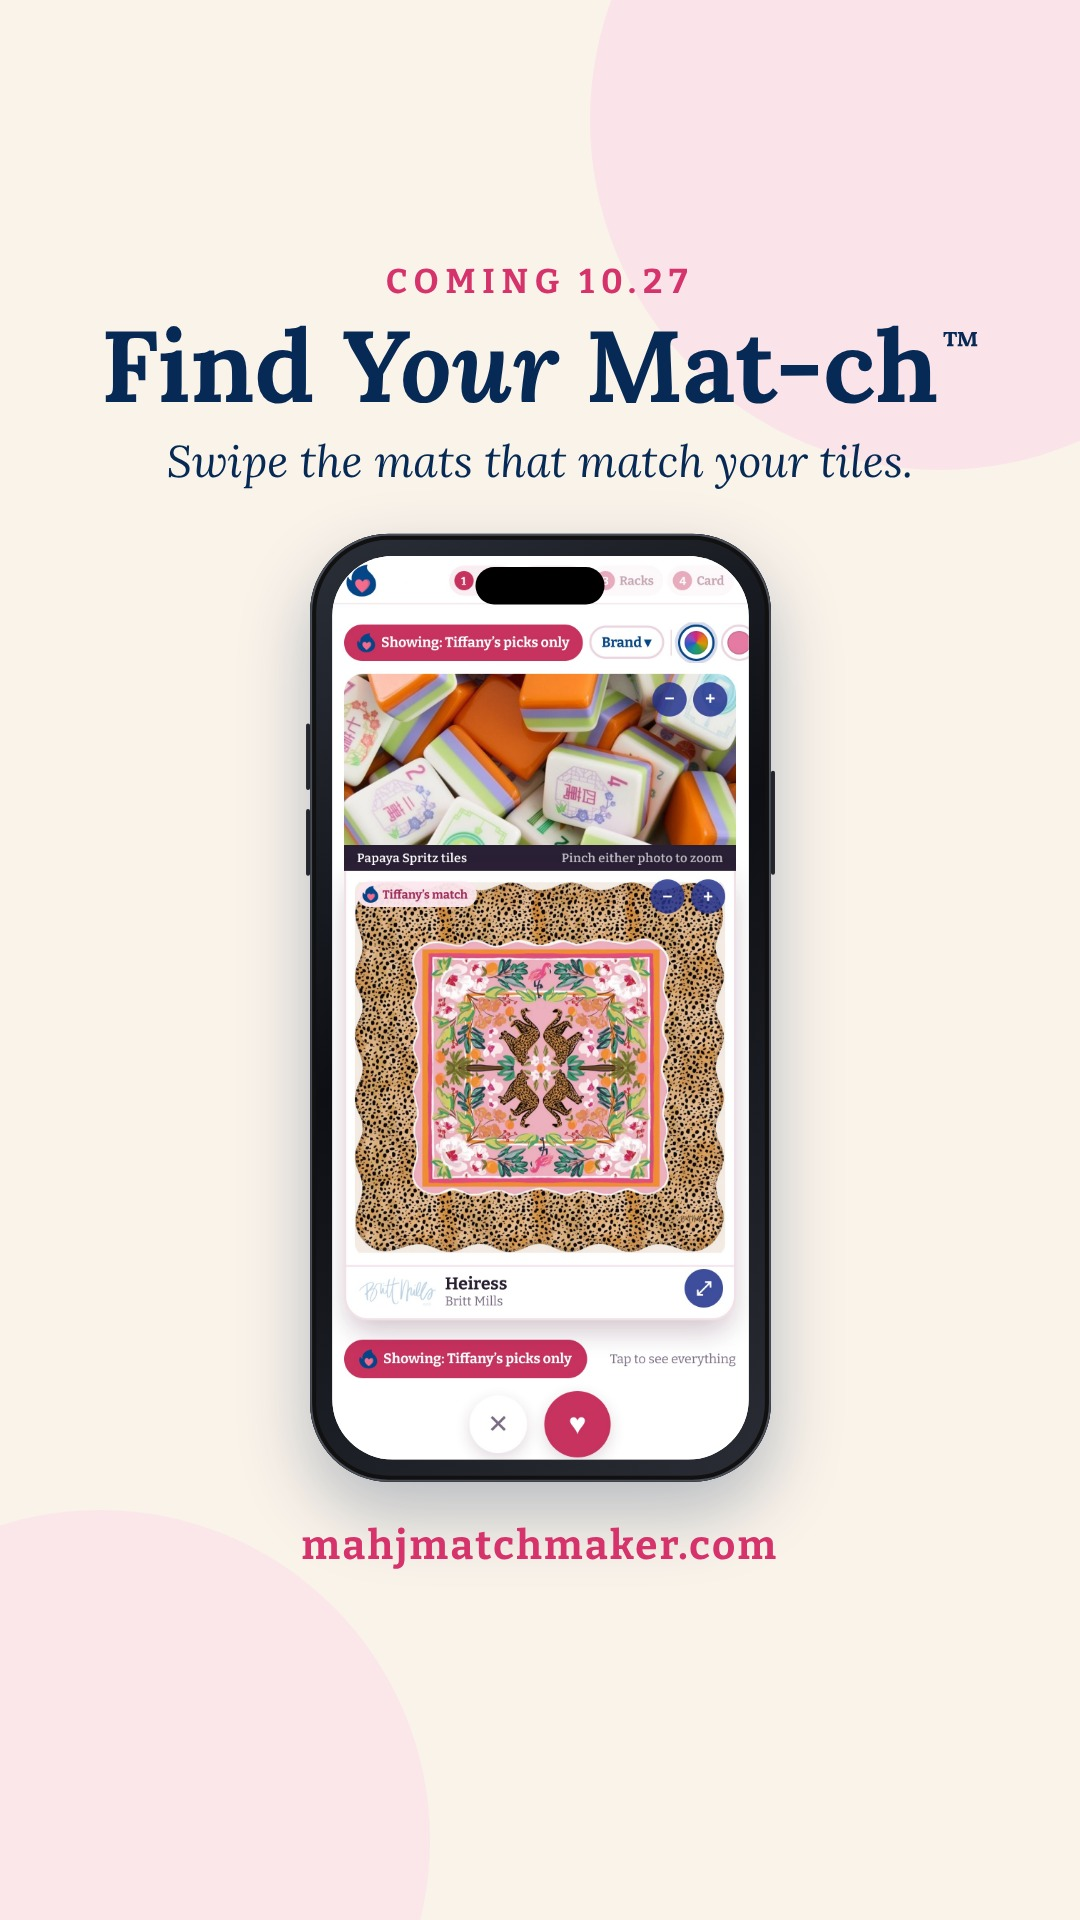
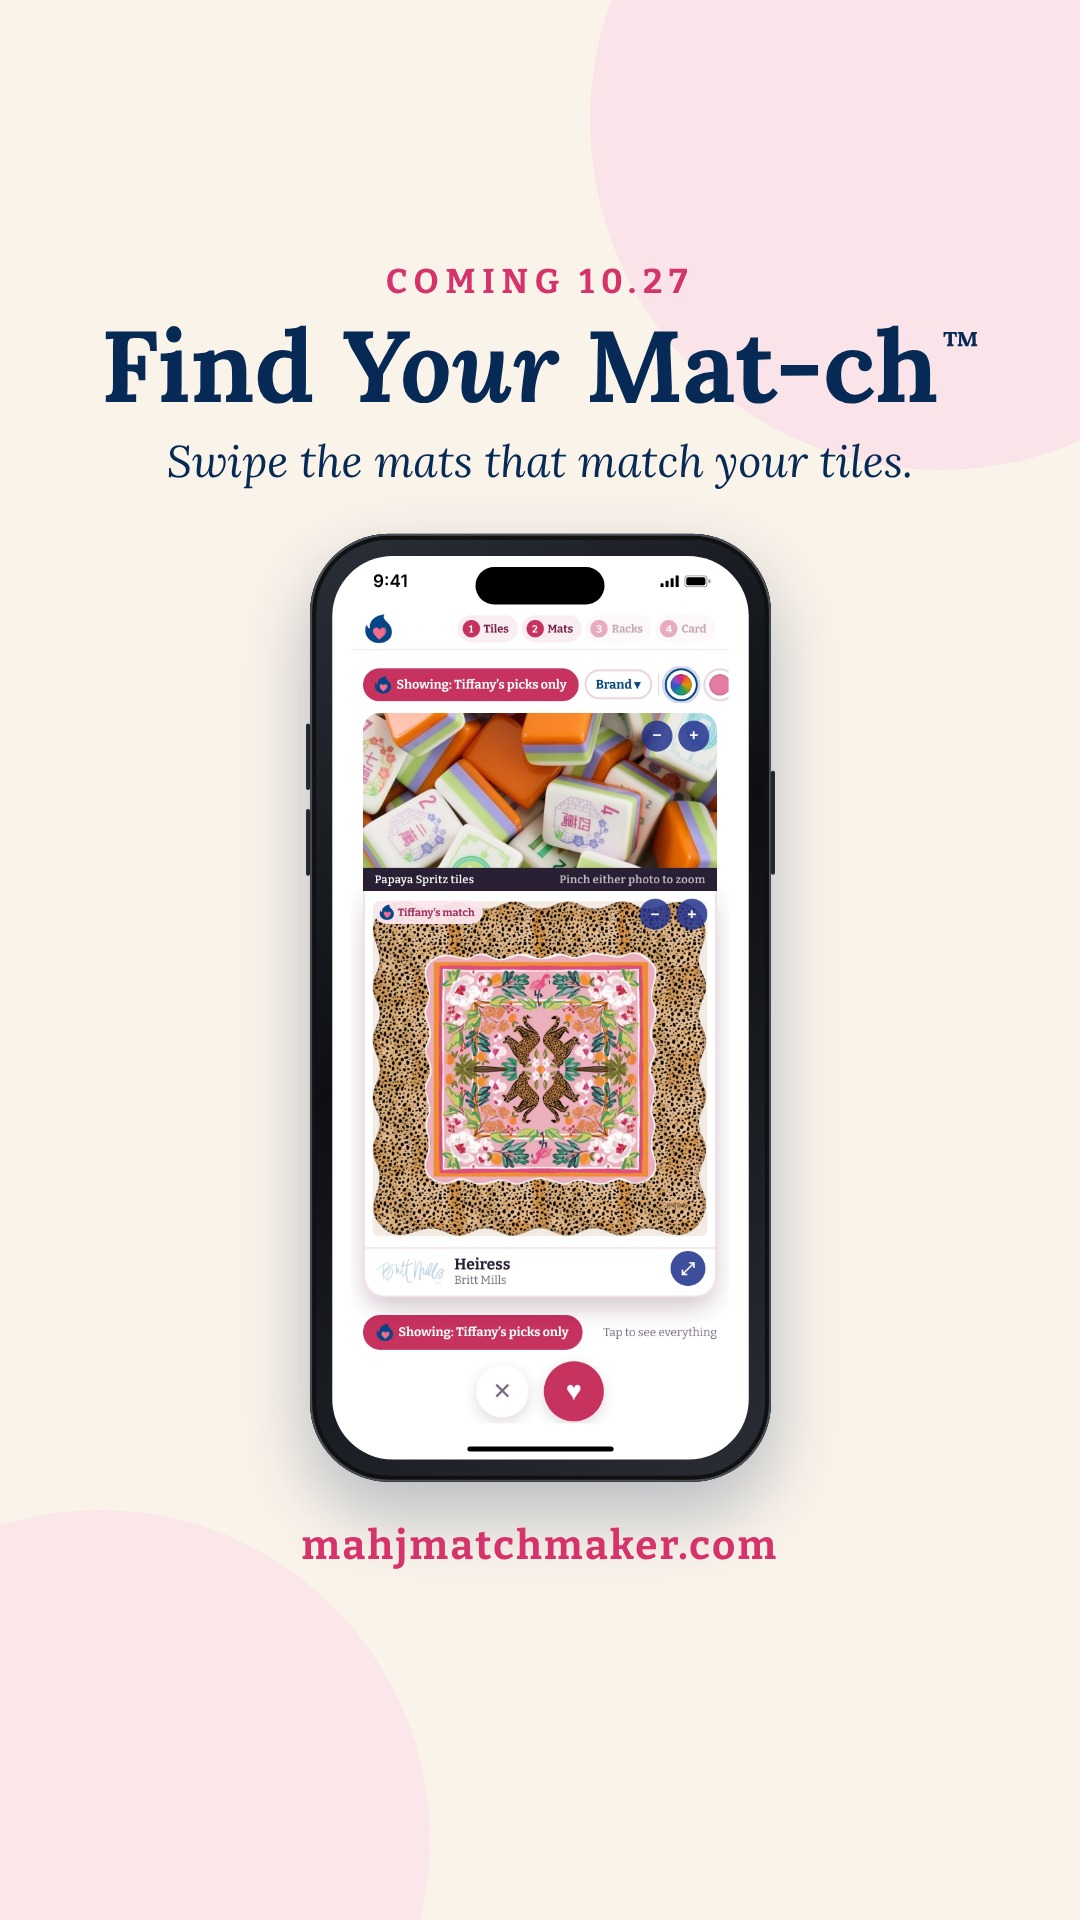
WIP from running agents
Claude-Session: https://claude.ai/code/session_014aKoC1ZMdZPjGkZ9kHhnLk

Changed region(s): [[0.3056, 0.2812, 0.7028, 0.7812]]

diff --git a/scripts/social/its_a_match/papaya_heiress_story_v2.py b/scripts/social/its_a_match/papaya_heiress_story_v2.py
@@ -53,7 +53,12 @@ def frame3():
   <div style="position:absolute;left:-4px;top:{round(ph*.29)}px;width:4px;height:{round(ph*.07)}px;border-radius:2px;background:#22252c"></div>
   <div style="position:absolute;right:-4px;top:{round(ph*.25)}px;width:4px;height:{round(ph*.11)}px;border-radius:2px;background:#22252c"></div>
   <div style="width:{sw}px;height:{sh}px;border-radius:{round(pw*0.17)-bez+4}px;overflow:hidden;background:#fff;position:relative">
-    <img src="{u(c['fym_img'])}" style="width:100%;height:100%;object-fit:cover;object-position:top;display:block">
+    <!-- Oct 21 QA: the dynamic island covered FYM's step bar, so the page sits below an iOS status bar (47pt of 390 = real safe area);
+         plus the 34pt home-indicator area at the bottom; the 390x844 shot is contained (not cropped) so the X + heart row stays whole; the shot's edges are white like the screen -->
+    <div style="height:{round(sw*47/390)}px;display:flex;align-items:center;justify-content:space-between;padding:0 {round(sw*.09)}px 0 {round(sw*.1)}px;font:600 {round(sw*.042)}px -apple-system,Helvetica,Arial,sans-serif;color:#000">
+      <span>9:41</span><span style="display:flex;gap:{round(sw*.012)}px;align-items:center"><svg width="{round(sw*.045)}" height="{round(sw*.03)}" viewBox="0 0 18 12"><rect x="0" y="8" width="3" height="4" rx=".7"/><rect x="5" y="5.5" width="3" height="6.5" rx=".7"/><rect x="10" y="3" width="3" height="9" rx=".7"/><rect x="15" y="0" width="3" height="12" rx=".7"/></svg><svg width="{round(sw*.065)}" height="{round(sw*.03)}" viewBox="0 0 27 12"><rect x=".5" y=".5" width="22" height="11" rx="3" fill="none" stroke="#000" opacity=".4"/><rect x="2" y="2" width="19" height="8" rx="1.8"/><rect x="24" y="4" width="2" height="4" rx="1" opacity=".4"/></svg></span></div>
+    <img src="{u(c['fym_img'])}" style="width:100%;height:{sh - round(sw*81/390)}px;object-fit:contain;object-position:top center;display:block">
+    <div style="position:absolute;left:50%;bottom:{round(sw*8/390)}px;width:{round(sw*.35)}px;height:{max(4, round(sw*5/390))}px;margin-left:-{round(sw*.175)}px;border-radius:99px;background:#000"></div>
     <div style="position:absolute;left:50%;top:11px;width:{round(sw*.31)}px;height:{round(sw*.09)}px;margin-left:-{round(sw*.155)}px;border-radius:99px;background:#000"></div>
   </div>
 </div>
